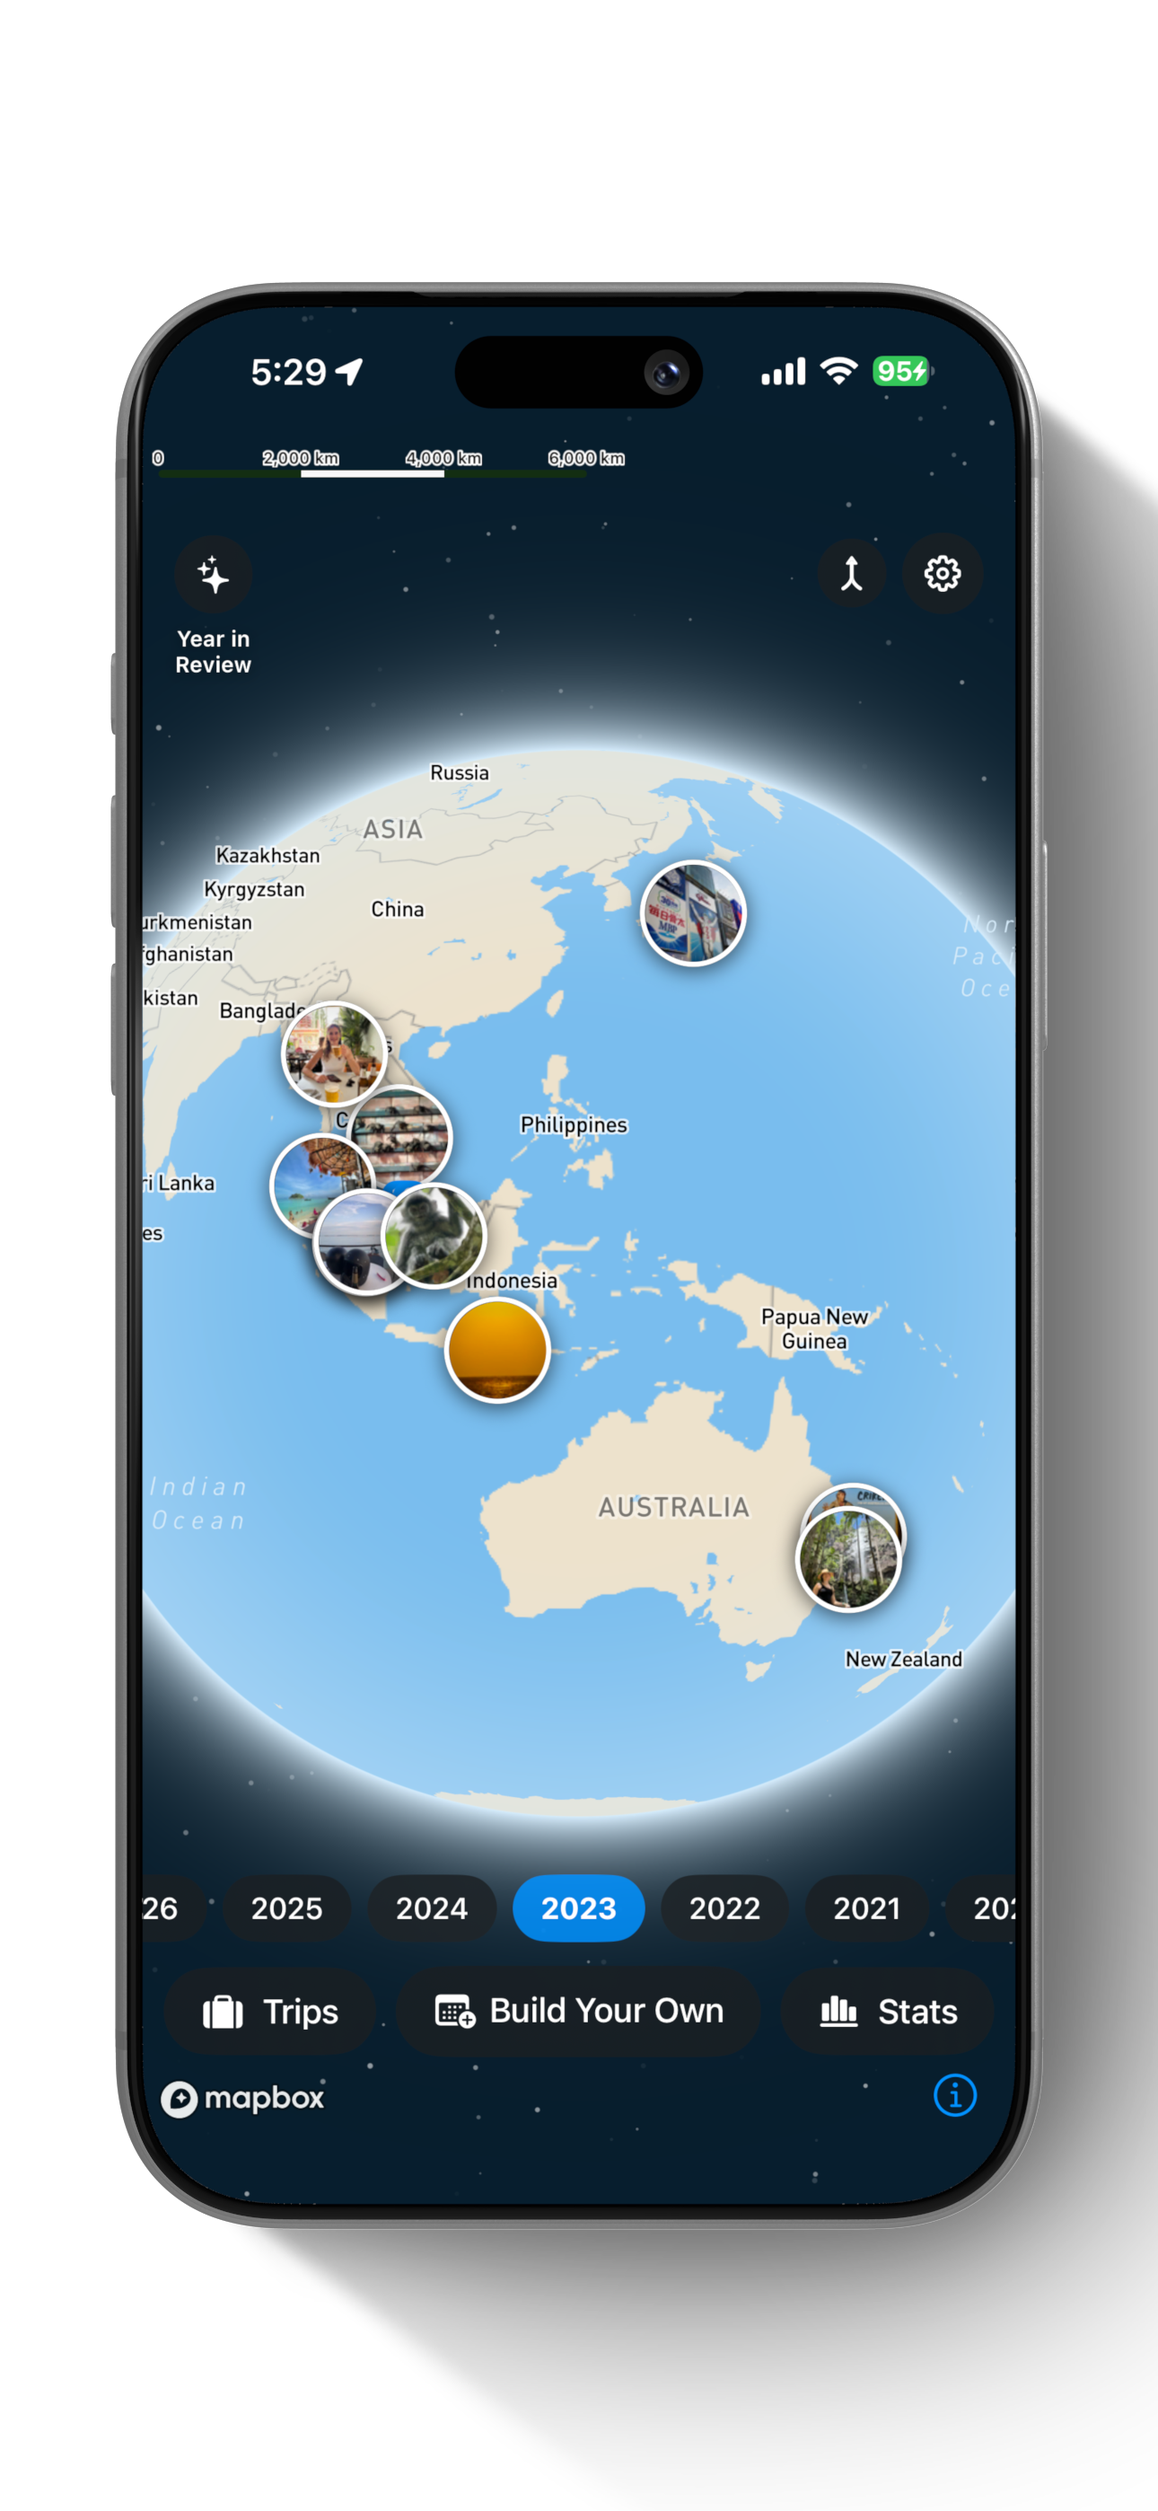
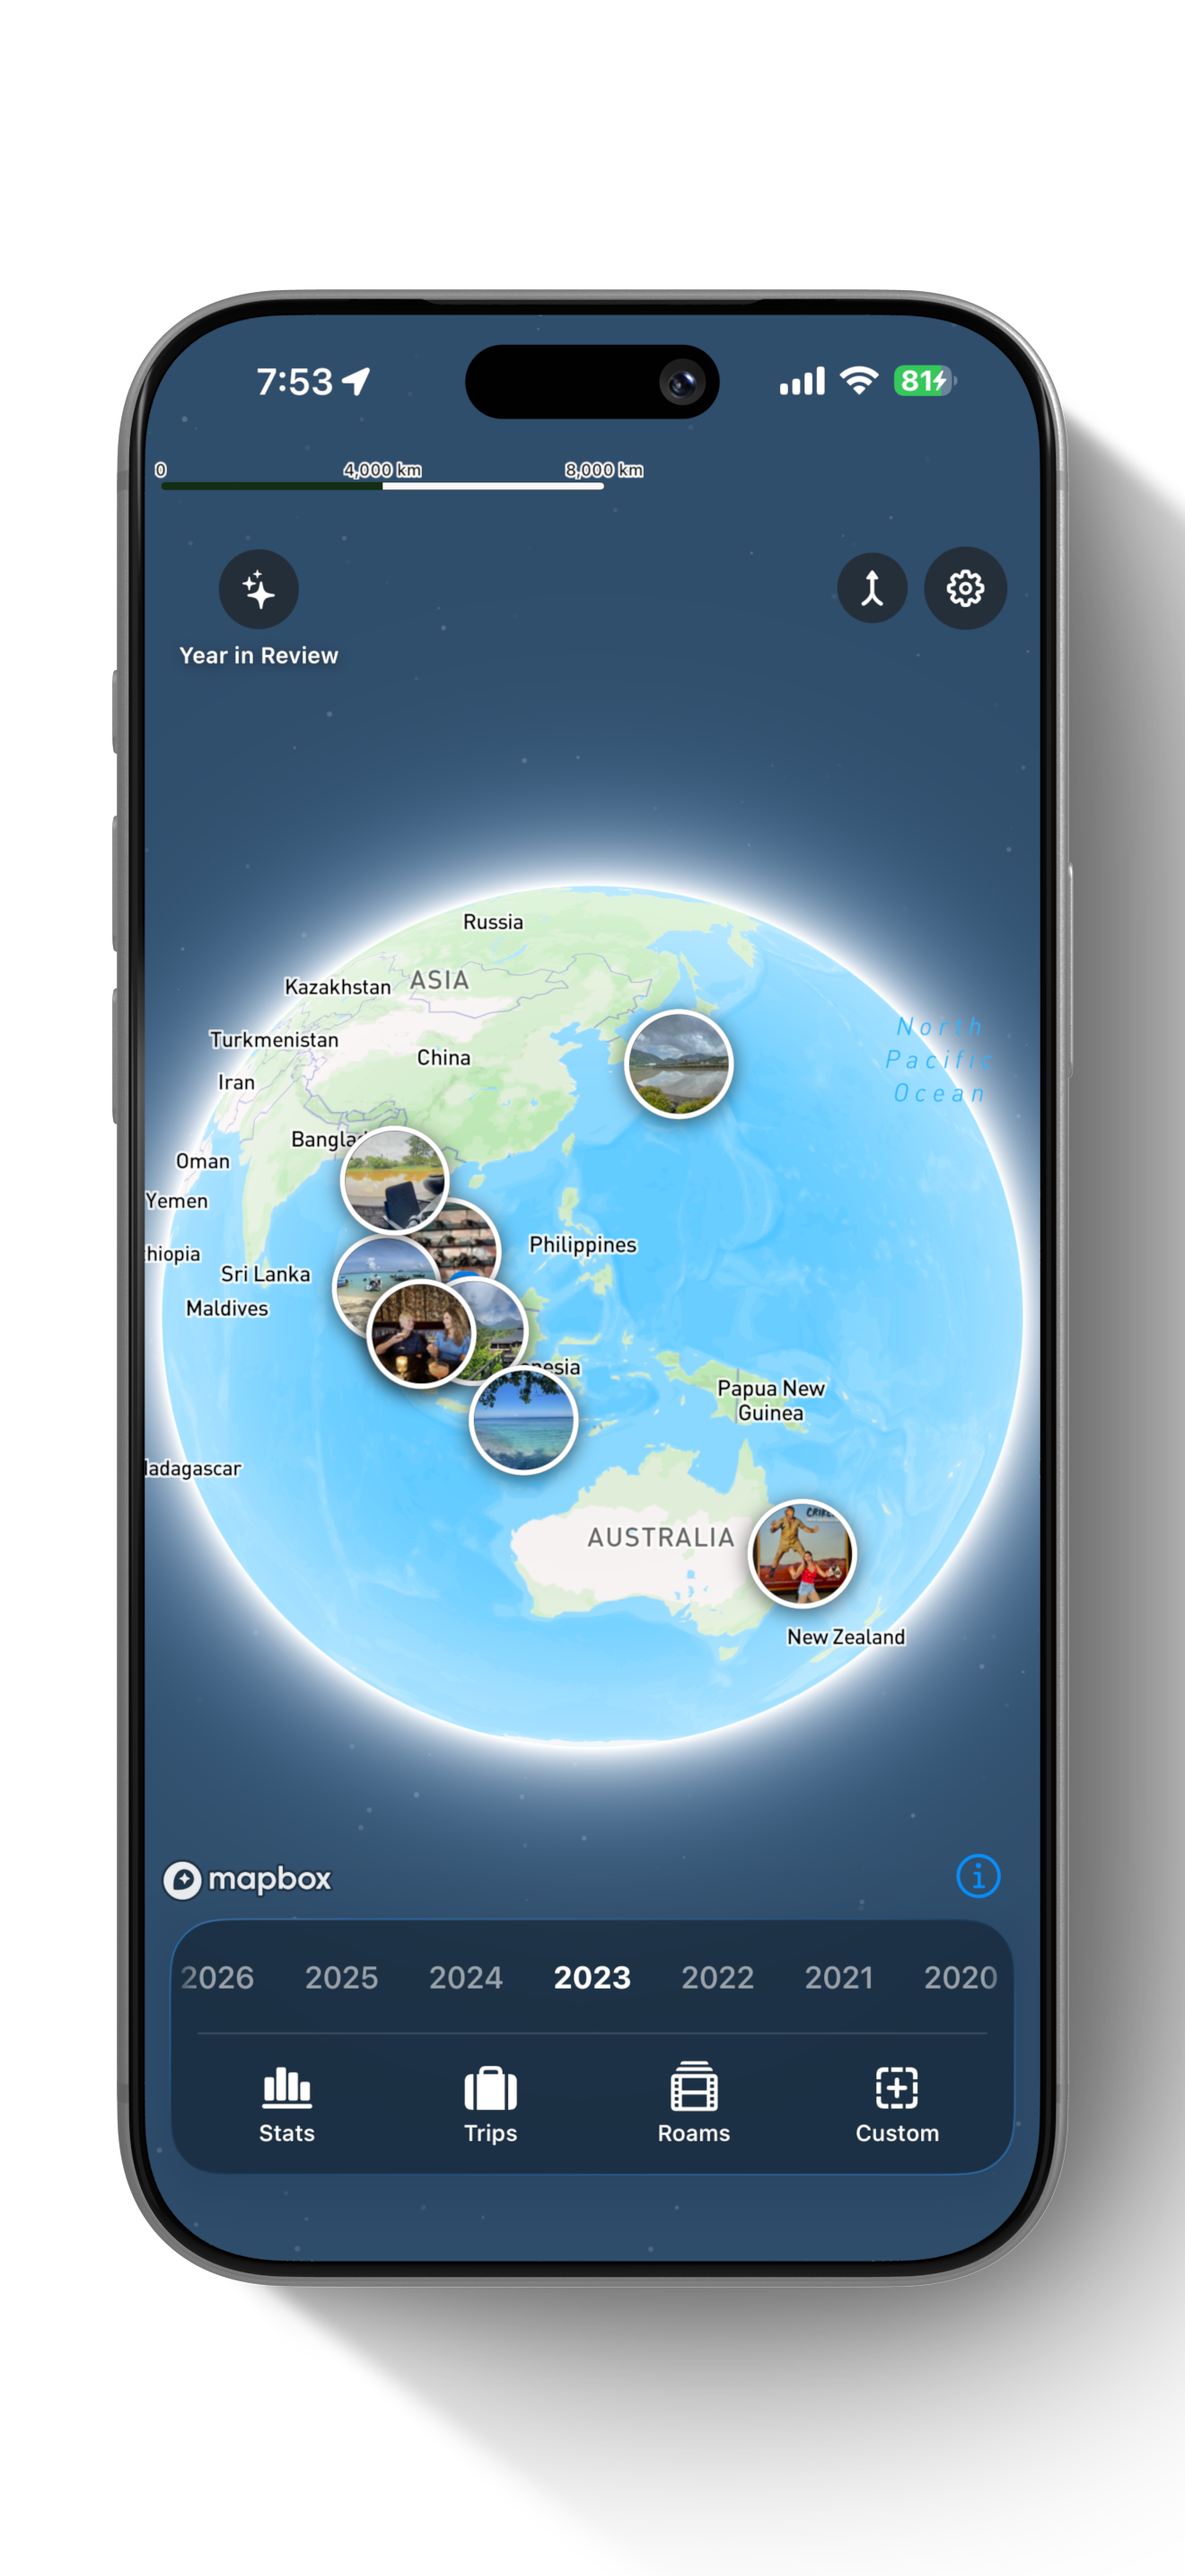
fix: press kit uses the current globe shot
Swaps assets/screens/globe.png for the 21 Aug capture from the App Store
materials — the old one still showed the retired "Build Your Own" tab
label, where current builds read Stats | Trips | Roams | Custom.
index.html never referenced this file, so only the press page changes.

Drops custom-night-out from the press grid: it's a sheet over a blurred
map, reads as mush at thumbnail size, and also carries the old label.
The file stays because index.html still uses it.

Kit rebuilt: 13 screenshots, 25 MB.

diff --git a/press.html b/press.html
@@ -312,7 +312,7 @@ footer{border-top:1px solid var(--paper-3);padding:34px 0 46px;background:var(--
     <div class="hero-cta">
       <a href="https://media.roamango.co/roamango-press-kit.zip" class="btn btn-primary">
         <svg viewBox="0 0 24 24" aria-hidden="true"><path d="M12 16l-6-6h4V4h4v6h4l-6 6zm-8 2h16v2H4v-2z"/></svg>
-        Download everything <span style="opacity:.7;font-weight:600">· 26&nbsp;MB</span>
+        Download everything <span style="opacity:.7;font-weight:600">· 25&nbsp;MB</span>
       </a>
       <a href="mailto:press@chaoskampf.co" class="btn btn-ghost">press@chaoskampf.co</a>
     </div>
@@ -504,7 +504,6 @@ footer{border-top:1px solid var(--paper-3);padding:34px 0 46px;background:var(--
       <a class="shot" href="assets/screens/photo-style.png" download><img src="assets/screens/photo-style.png" alt="Photo reveal style picker." loading="lazy" decoding="async"><b>Reveal styles</b><span>How each photo arrives on the map — postcard, polaroid, full frame.</span></a>
       <a class="shot" href="assets/screens/photo-style-fullscreen.png" download><img src="assets/screens/photo-style-fullscreen.png" alt="Full-screen photo reveal style." loading="lazy" decoding="async"><b>Full-frame reveal</b><span>The same stop, shown edge to edge.</span></a>
       <a class="shot" href="assets/screens/year-in-review.png" download><img src="assets/screens/year-in-review.png" alt="Year in Review screen." loading="lazy" decoding="async"><b>Year in Review</b><span>A whole year of travel swept into one film.</span></a>
-      <a class="shot" href="assets/screens/custom-night-out.png" download><img src="assets/screens/custom-night-out.png" alt="A custom film built from a single night out." loading="lazy" decoding="async"><b>Custom films</b><span>Any date range, any pins — a single night out works as well as a year.</span></a>
       <a class="shot" href="assets/screens/compare-1.png" download><img src="assets/screens/compare-1.png" alt="Crossed Paths comparison view." loading="lazy" decoding="async"><b>Crossed Paths</b><span>Two travel histories overlaid: where you both went.</span></a>
       <a class="shot" href="assets/screens/compare-2.png" download><img src="assets/screens/compare-2.png" alt="Crossed Paths near-miss detail." loading="lazy" decoding="async"><b>Crossed Paths, detail</b><span>And the times you were in the same city and missed each other.</span></a>
       <a class="shot" href="assets/screens/stats.png" download><img src="assets/screens/stats.png" alt="Travel statistics screen." loading="lazy" decoding="async"><b>Stats</b><span>Countries, distance, days away — derived from the same photo data.</span></a>
